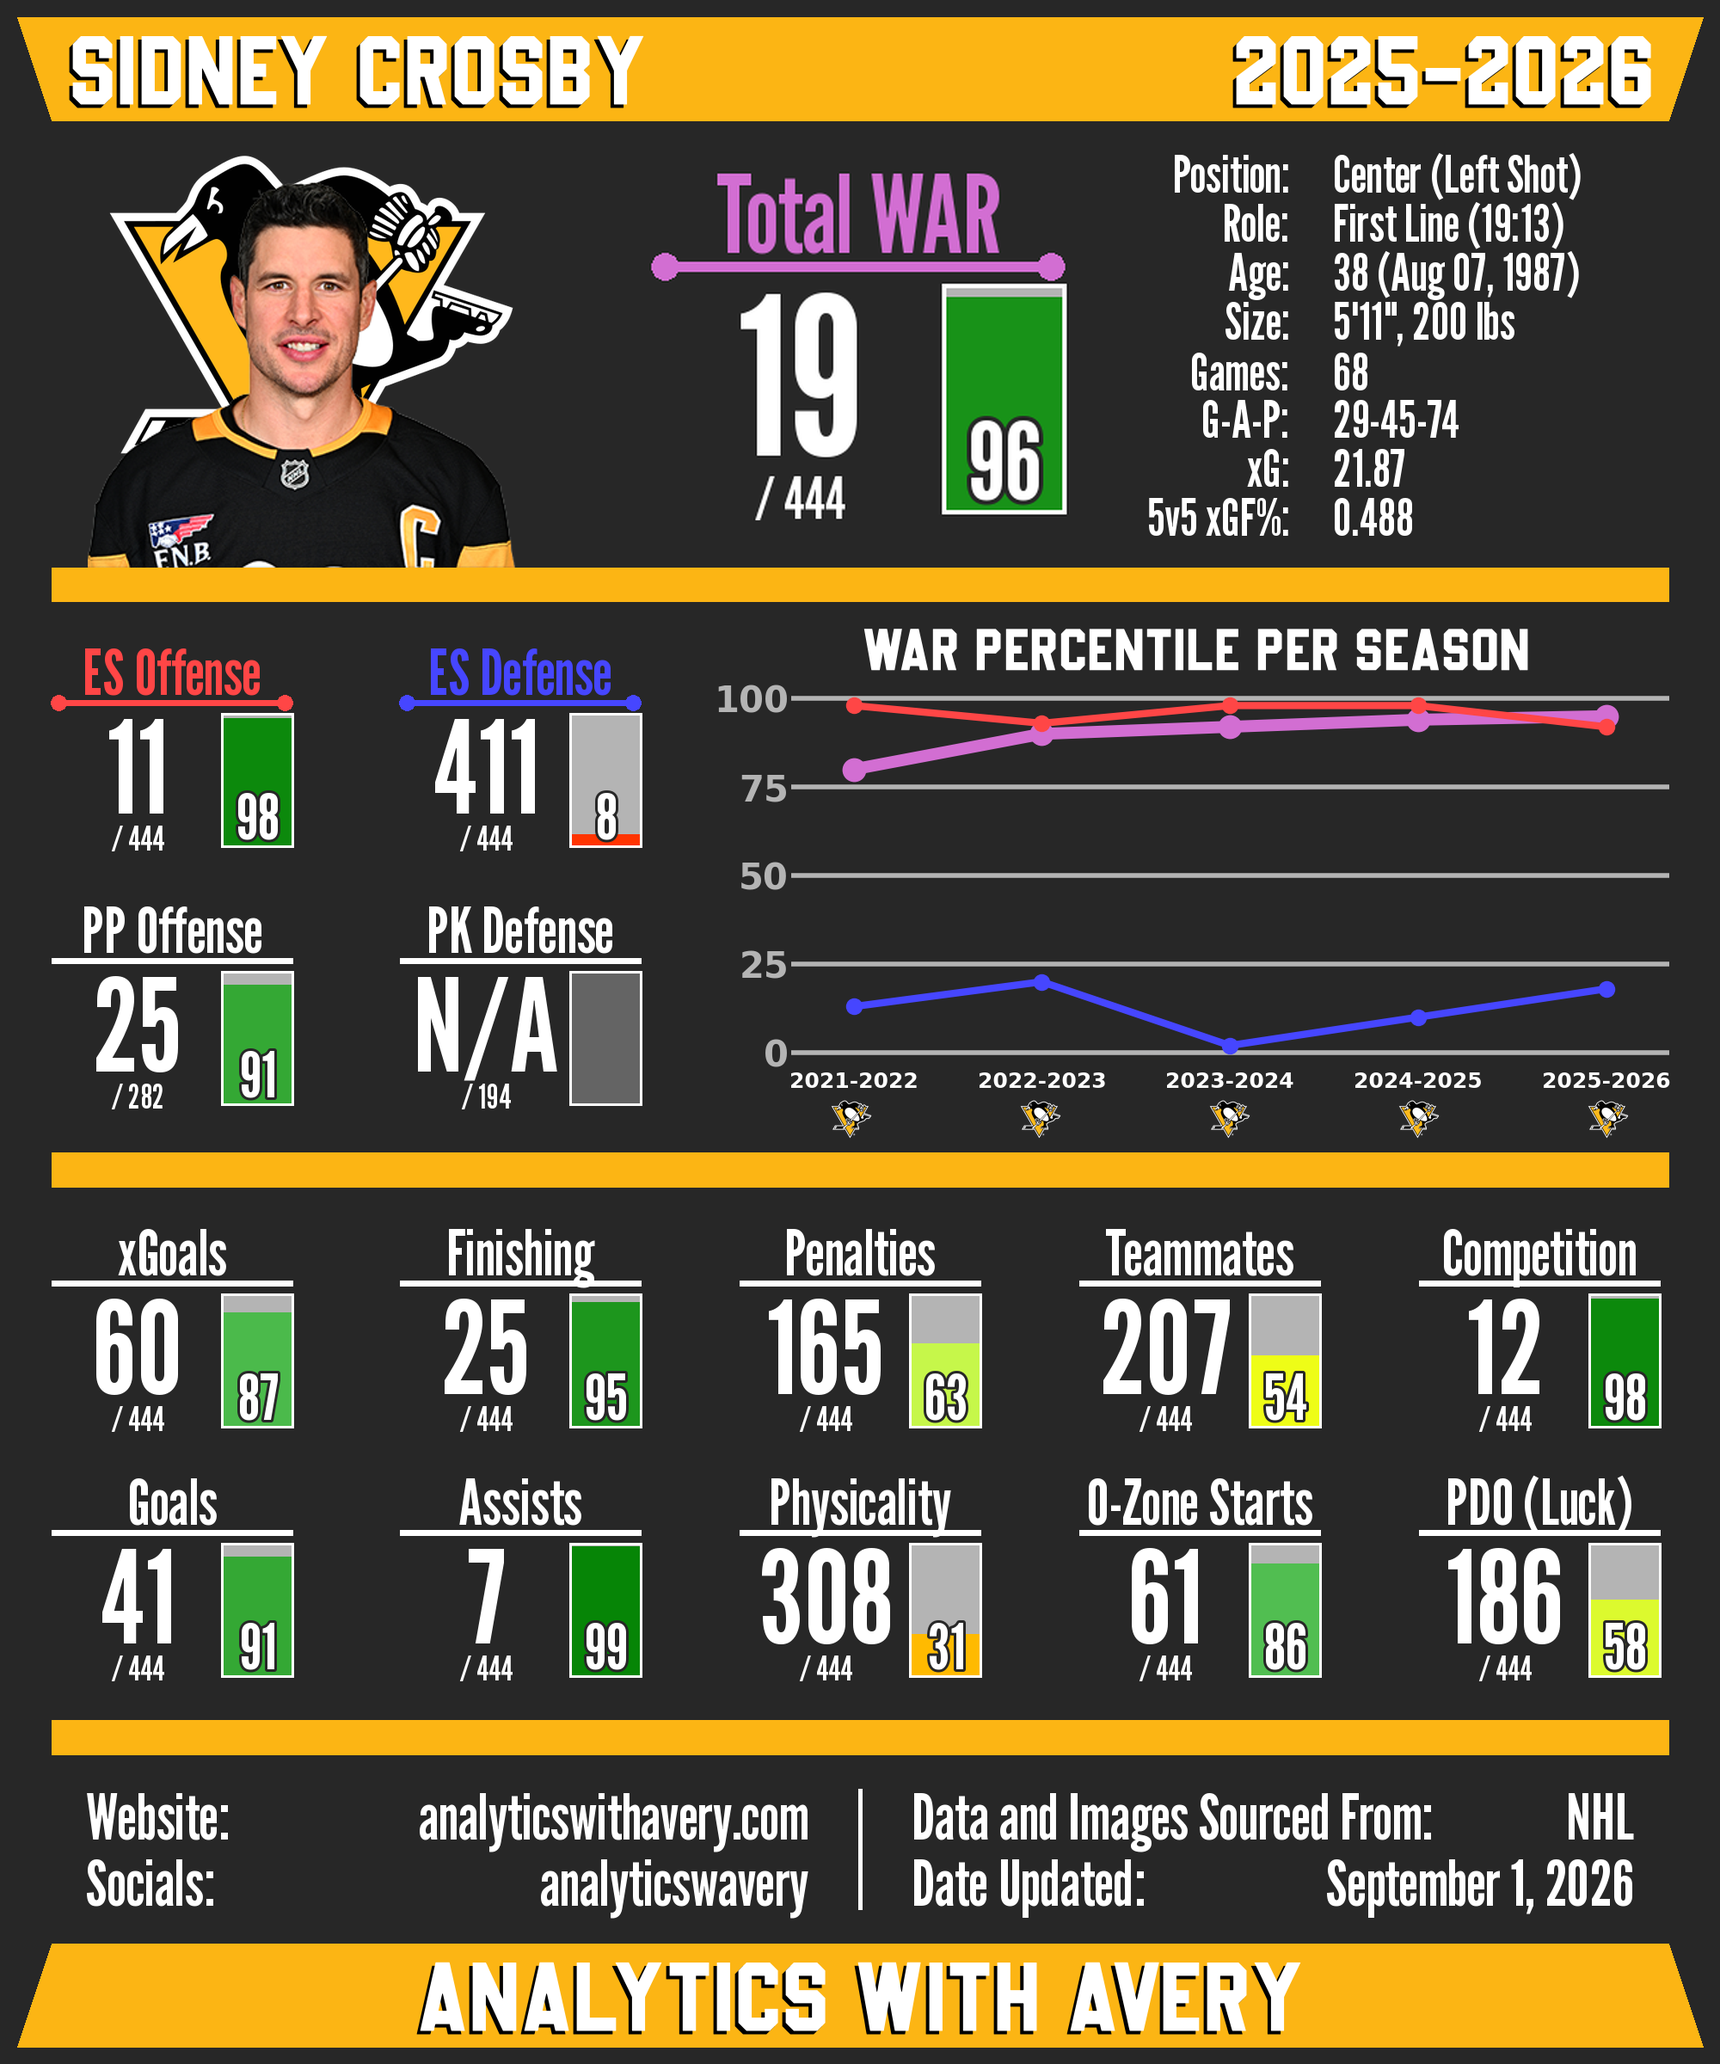
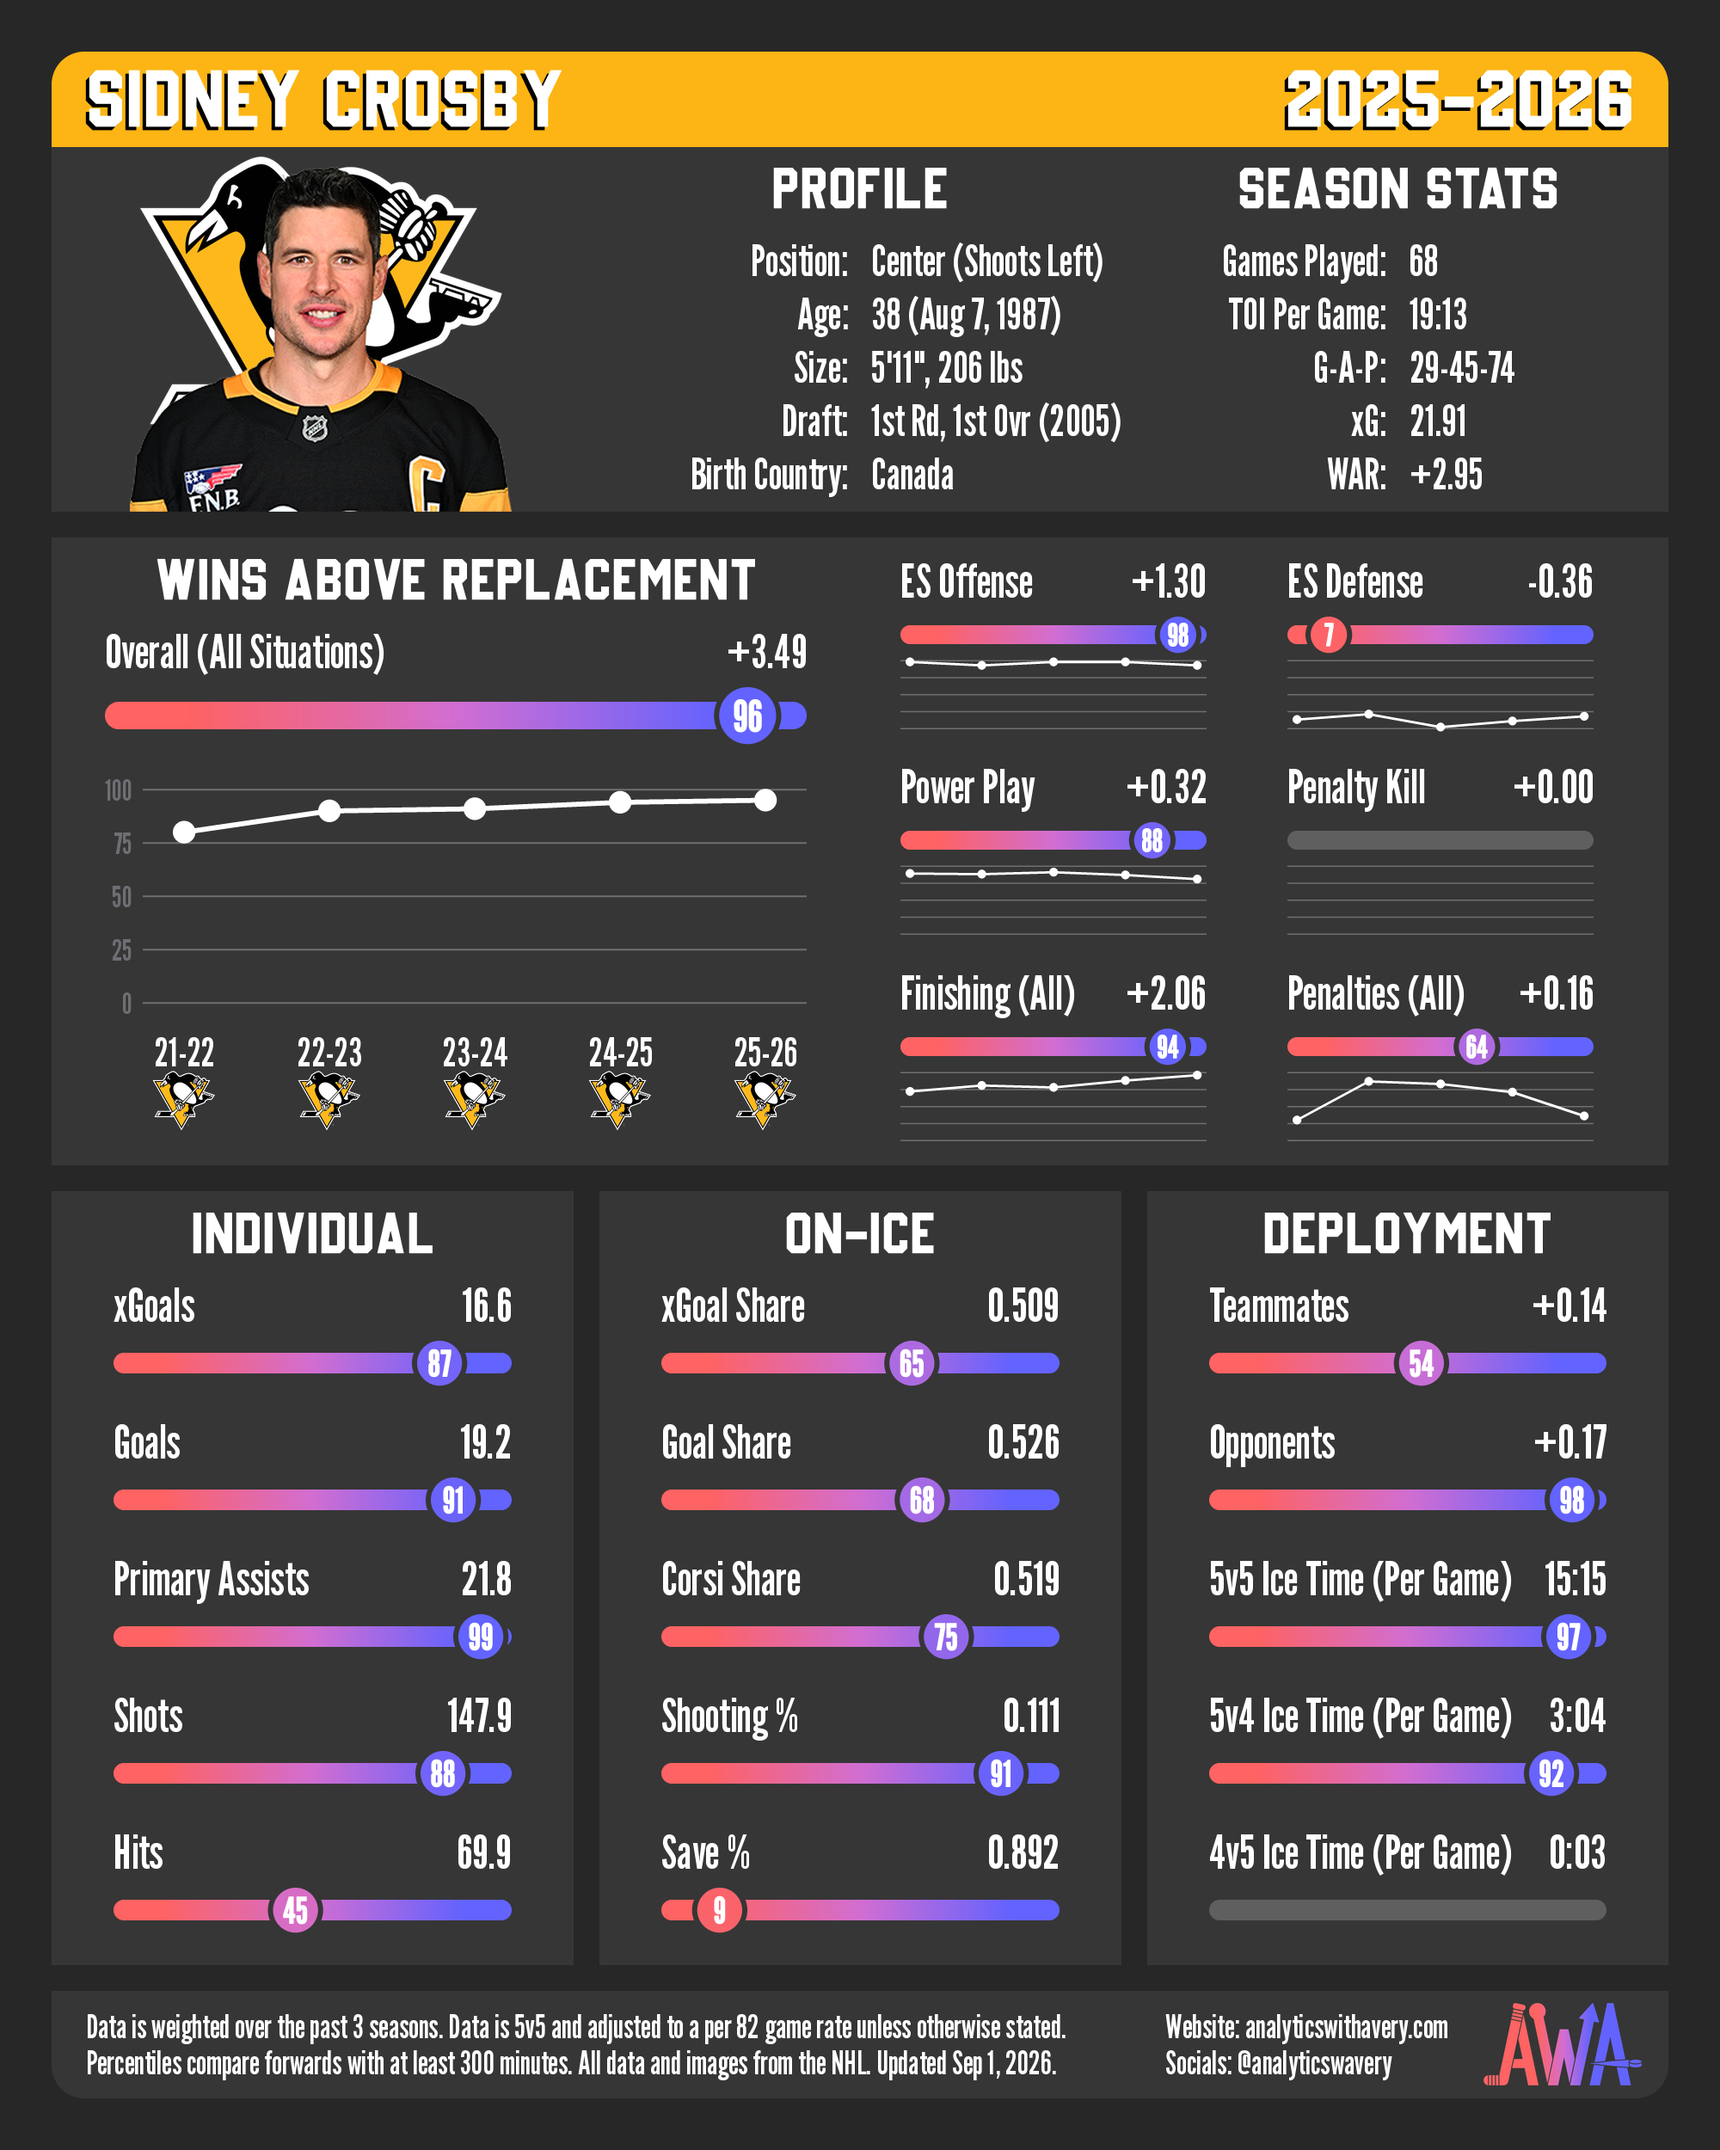
Update README.md

diff --git a/README.md b/README.md
@@ -1,7 +1,7 @@
 # NHL Player Stat Cards
 
 ## Description
-Generates visually appealing stat cards for individual NHL players from prepared card data. The data collection, modeling, and ranking live in the separate [nhl-stats-collection-and-processing](https://github.com/AveryJD/nhl-stats-collection-and-processing) project, which writes the card-ready CSV files this project reads.
+Generates visually appealing stat cards for individual NHL players from prepared card data. The data collection, modeling, and ranking live in the separate [nhl-analytics-pipeline](https://github.com/AveryJD/nhl-analytics-pipeline) project (not currently public, but will be made available), which writes the card-ready CSV files this project reads.
 
 <p align="center">
   <img src="example_card.png" alt="Sidney Crosby Player Card" width="50%" />
@@ -29,7 +29,7 @@ cd nhl-player-cards
 mkdir data
 ```
 
-This folder will hold the card data (data/card_data/player_card_data/) and the card assets (data/card_data/assets/fonts and data/card_data/assets/team_logos), both produced by the stats collection project.
+This folder will hold the card data (data/card_data/player_card_data/) and the card assets (data/card_data/assets/fonts and data/card_data/assets/team_logos), both produced by the analytics pipeline project.
 
 3. **Create a virtual environment:**
 
@@ -52,7 +52,7 @@ pip install -r requirements.txt
 
 
 ## Usage
-Copy the card_data folder (contains player card data and assets, as well as team card data but that can be deleted) from the stats collection project's data folder into this project's data folder, then generate cards.
+Copy the card_data folder (contains player card data and assets, as well as team card data but that can be deleted) from the analytics pipeline's data folder into this project's data folder, then generate cards.
 
 Call functions in src/player_card_project/__main__.py to choose what cards to generate:
 ```python
@@ -63,7 +63,7 @@ Parameters:
   Player Full Name ('First Last')
   Season ('YYYY-YYYY')
   Position Code ('F', 'D', or 'G')
-  Card Mode ('Light' or 'Dark')
+  Card Mode ('light' or 'dark')
 """
 ```
 
